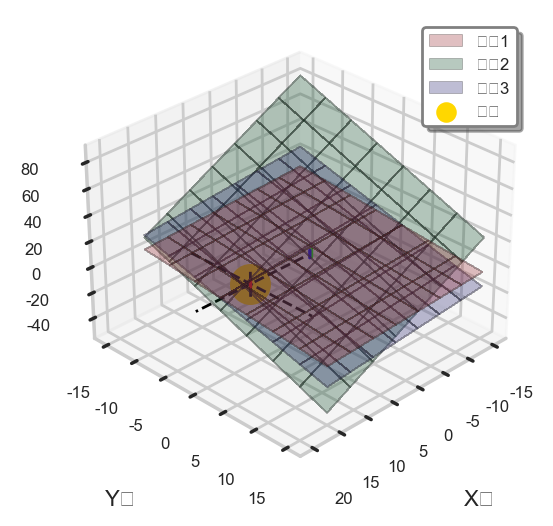
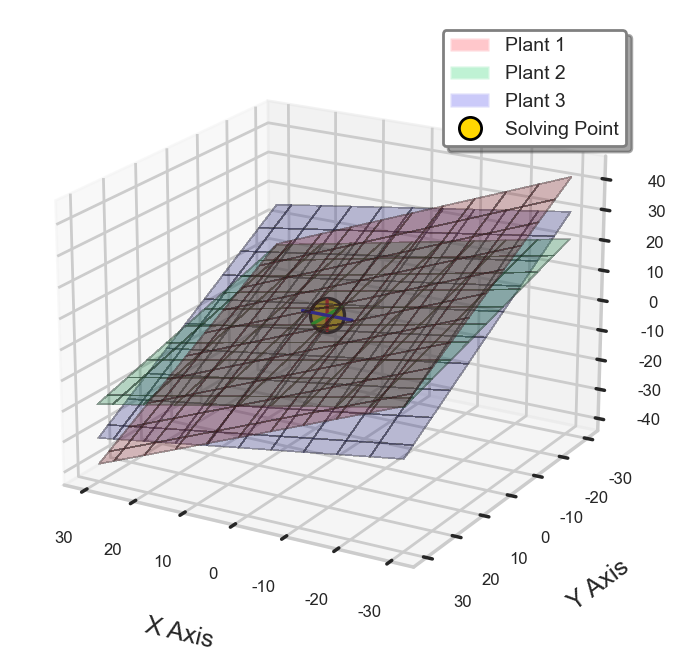
determinant change

diff --git a/templates/determinant.html b/templates/determinant.html
@@ -47,6 +47,10 @@
         padding-left: 15px;
         margin: 25px 0;
     }
+    .animation-gif {
+        border-radius: 6px;
+        box-shadow: 0 4px 12px rgba(0,0,0,0.1);
+    }
     /* 添加颜色定义 */
     .katex .red { color: #e74c3c; }
     .katex .blue { color: #3498db; }
@@ -152,16 +156,24 @@
                     <div class="card-body">
                         <div class="d-flex justify-content-center">
                             <div class="matrix-container" id="matrix2x2">
+                                <form method="post">
                                 <div class="matrix-row mb-2">
-                                    <input type="number" class="matrix-input" value="1">
-                                    <input type="number" class="matrix-input" value="0">
+                                    <input type="number" name="a" class="matrix-input" value="1">
+                                    <input type="number" name="b" class="matrix-input" value="0">
                                 </div>
                                 <div class="matrix-row">
-                                    <input type="number" class="matrix-input" value="0">
-                                    <input type="number" class="matrix-input" value="1">
+                                    <input type="number" name="c" class="matrix-input" value="0">
+                                    <input type="number" name="d" class="matrix-input" value="1">
                                 </div>
+                                <div class="text-center mt-3">
+                                    <button type="submit" class="btn btn-primary btn-lg">
+                                        <i class="bi bi-play-circle"></i> 生成动画
+                                    </button>
+                                </div>
+                                </form>
                             </div>
                         </div>
+
                     </div>
                 </div>
             </div>
@@ -179,6 +191,18 @@
                         </div>
                     </div>
                 </div>
+
+            </div>
+            <div class="col-lg-6">
+                {% if gif_url %}
+                    <div class="animation-result mt-4">
+                        <h4>变换效果可视化：</h4>
+                        <div class="animation-wrapper">
+                            <img src="{{ gif_url }}" alt="线性变换动画" class="animation-gif" id="gif-image" >
+                        </div>
+                        <button onclick="replayGIF()" style="margin-top:10px;">重新播放</button>
+                    </div>
+                {% endif %}
             </div>
         </div>
     </div>
@@ -204,6 +228,10 @@
     document.querySelectorAll('.matrix-input').forEach(input => {
         input.addEventListener('input', updateDeterminant);
     });
+    function replayGIF() {
+        const img = document.getElementById('gif-image');
+        img.src = "{{ gif_url }}?t=" + new Date().getTime(); // 添加时间戳避免缓存
+    }
 
     function updateDeterminant() {
         const inputs = Array.from(document.querySelectorAll('.matrix-input'));

diff --git a/templates/feature.html b/templates/feature.html
@@ -356,6 +356,7 @@
                 <button type="submit" class="btn btn-primary btn-lg">
                     <i class="bi bi-play-circle"></i> 生成动画
                 </button>
+
             </div>
         </form>
 
@@ -363,8 +364,9 @@
             <div class="animation-result mt-4">
                 <h4>变换效果可视化：</h4>
                 <div class="animation-wrapper">
-                    <img src="{{ gif_url }}" alt="线性变换动画" class="animation-gif">
+                    <img src="{{ gif_url }}" alt="线性变换动画" class="animation-gif" id="gif-image">
                 </div>
+                <button onclick="replayGIF()" style="margin-top:10px;">重新播放</button>
             </div>
         {% endif %}
     </div>
@@ -380,7 +382,10 @@ const ctx = canvas.getContext('2d');
 let P = {x:1, y:0};
 let isDragging = false;
 const scale = 50;
-
+function replayGIF() {
+    const img = document.getElementById('gif-image');
+    img.src = "{{ gif_url }}?t=" + new Date().getTime(); // 添加时间戳避免缓存
+}
 const toCanvas = (x,y) => ({
   x: canvas.width/2 + x*scale,
   y: canvas.height/2 - y*scale

diff --git a/utils/determinant.py b/utils/determinant.py
@@ -45,26 +45,24 @@ class PillowWriter(AbstractMovieWriter):
         self._frames[0].save(
             self.outfile, save_all=True, append_images=self._frames[1:],
             duration=int(1000 / self.fps), loop=1)
-# GIF 生成函数
-def generate_transformation_gif(A, filename='static/feature/transformation.gif',
-                                grid_range=(-3, 3), grid_step=0.5,
-                                frames=60, interval=50):
+
+def generate_determinant_gif(A, filename='static/determinant/determinant_area.gif',
+                                     grid_range=(-3, 3), grid_step=0.5,
+                                     frames=60, interval=50):
     e1 = np.array([1, 0], dtype=float)
     e2 = np.array([0, 1], dtype=float)
     Ae1 = A @ e1
     Ae2 = A @ e2
 
-    eig_vals, eig_vecs = np.linalg.eig(A)
-    eig_vecs_norm = []
-    for i in range(eig_vecs.shape[1]):
-        v = eig_vecs[:, i]
-        norm = np.linalg.norm(v)
-        eig_vecs_norm.append(v / norm if norm != 0 else v)
-    eig_vecs_norm = np.array(eig_vecs_norm).T
-    eig1 = eig_vecs_norm[:, 0]
-    eig2 = eig_vecs_norm[:, 1]
-    Aeig1 = A @ eig1
-    Aeig2 = A @ eig2
+    # 单位正方形四个顶点（回到起点闭合）
+    square = np.array([
+        [0, 0],
+        [1, 0],
+        [1, 1],
+        [0, 1],
+        [0, 0]
+    ])
+    square_trans = (A @ square.T).T  # 矩阵变换后的四边形
 
     fig, ax = plt.subplots(figsize=(6, 6))
     ax.set_aspect('equal', 'box')
@@ -91,38 +89,53 @@ def generate_transformation_gif(A, filename='static/feature/transformation.gif',
         line, = ax.plot(pts[:, 0], pts[:, 1], color='lightgray', lw=0.5)
         grid_lines.append({'orig': pts, 'trans': pts_trans, 'line': line})
 
-    q_Ae1 = ax.quiver(0, 0, 0, 0, angles='xy', scale_units='xy', scale=1,
-                      color='red', label='A·e1')
-    q_Ae2 = ax.quiver(0, 0, 0, 0, angles='xy', scale_units='xy', scale=1,
-                      color='orange', label='A·e2')
-    q_eig1 = ax.quiver(0, 0, 0, 0, angles='xy', scale_units='xy', scale=1,
-                       color='magenta', width=0.005, label='Eigenvector 1')
-    q_eig2 = ax.quiver(0, 0, 0, 0, angles='xy', scale_units='xy', scale=1,
-                       color='green', width=0.005, label='Eigenvector 2')
+    # 单位正方形：初始化直接画出来
+    square_patch, = ax.plot(square[:, 0], square[:, 1], 'b-', lw=2, label='area')
 
-    # 加入图例
-    ax.legend(loc='upper left', fontsize='small')
+    # 标准基向量和变换后向量
+    q_Ae1 = ax.quiver(0, 0, e1[0], e1[1], angles='xy', scale_units='xy', scale=1, color='red', label='A·e1')
+    q_Ae2 = ax.quiver(0, 0, e2[0], e2[1], angles='xy', scale_units='xy', scale=1, color='orange', label='A·e2')
+
+    # 行列式文本
+    detA = np.linalg.det(A)
+    det_text = ax.text(0.05, 0.95, f"square = {abs(detA):.2f}",
+                       transform=ax.transAxes, fontsize=12, verticalalignment='top')
+
+    ax.legend(loc='lower right')
 
     def update(frame):
         t = frame / (frames - 1)
+
+        # 正方形插值
+        curr_square = (1 - t) * square + t * square_trans
+        square_patch.set_data(curr_square[:, 0], curr_square[:, 1])
+
+        # 向量插值
         curr_e1 = (1 - t) * e1 + t * Ae1
         curr_e2 = (1 - t) * e2 + t * Ae2
         q_Ae1.set_UVC(curr_e1[0], curr_e1[1])
         q_Ae2.set_UVC(curr_e2[0], curr_e2[1])
-        curr_eig1 = (1 - t) * eig1 + t * Aeig1
-        curr_eig2 = (1 - t) * eig2 + t * Aeig2
-        q_eig1.set_UVC(curr_eig1[0], curr_eig1[1])
-        q_eig2.set_UVC(curr_eig2[0], curr_eig2[1])
+
+        # 网格插值
         for gl in grid_lines:
             orig = gl['orig']
             trans = gl['trans']
             curr = (1 - t) * orig + t * trans
             gl['line'].set_data(curr[:, 0], curr[:, 1])
-        return [q_Ae1, q_Ae2, q_eig1, q_eig2] + [gl['line'] for gl in grid_lines]
+
+        # 计算当前四边形面积
+        x = curr_square[:, 0]
+        y = curr_square[:, 1]
+        area = 0.5 * abs(np.dot(x[:-1], y[1:]) - np.dot(y[:-1], x[1:]))
+        det_text.set_text(f"square = {area:.2f}")
+
+        return [q_Ae1, q_Ae2, square_patch, det_text] + [gl['line'] for gl in grid_lines]
 
     anim = FuncAnimation(fig, update, frames=frames, interval=interval, blit=True)
-    writer = PillowWriter(fps=1000/interval, metadata={'loop':1})
+
+    writer = PillowWriter(fps=1000 / interval, metadata={'loop': 1})
     os.makedirs(os.path.dirname(filename), exist_ok=True)
     anim.save(filename, writer=writer)
     plt.close(fig)
+
     return filename

diff --git a/utils/solve.py b/utils/solve.py
@@ -1,13 +1,15 @@
 import numpy as np
 from matplotlib import pyplot as plt
 import seaborn as sns
+from matplotlib.patches import Patch
 
 def plot_planes(A, b):
     sns.set_theme(style="whitegrid")
-    fig = plt.figure(figsize=(4, 3))
+    fig = plt.figure(figsize=(5, 4))
     ax = fig.add_subplot(111, projection="3d")
 
-    x = y = np.linspace(-15, 15, 15)
+    # 网格分辨率更高，范围更大，避免曲面过度畸形
+    x = y = np.linspace(-30, 30, 20)
     X, Y = np.meshgrid(x, y)
 
     try:
@@ -26,59 +28,69 @@ def plot_planes(A, b):
     }
 
     colors = ['#FF4755', '#2ED573', '#5352ED']
-    labels = ['平面1', '平面2', '平面3']
+    labels = ['Plant 1', 'Plant 2', 'Plant 3']
 
+    # 绘制平面
     for i in range(3):
         a, b_coeff, c = A[i]
-        d = c if c != 0 else 1e-6
+
+        # 避免 c=0 除零错误
+        d = c if abs(c) > 1e-6 else 1e-6
+
         Z = (b[i] - a * X - b_coeff * Y) / d
-        surf = ax.plot_surface(X, Y, Z, color=colors[i], label=labels[i], **plane_params)
+        surf = ax.plot_surface(X, Y, Z, color=colors[i], **plane_params)
+
+        # 强制让图例不会因为plot_surface无法识别label而丢失
         surf._facecolors2d = surf._facecolor3d
         surf._edgecolors2d = surf._edgecolor3d
 
+    # 绘制解的点
     if has_solution:
         x_sol, y_sol, z_sol = solution
         ax.scatter(
             x_sol, y_sol, z_sol,
             s=150,
             color='#FFD700',
-            linewidth=2.5,
-            label='Solving Point',
+            edgecolors='black',
+            linewidth=1.2,
+            label='解的坐标',
             zorder=100
         )
-        # XYZ三轴方向的参考线
-        ax.plot([x_sol, x_sol], [y_sol, y_sol], [z_sol - 10, z_sol + 10], color='black', linestyle='--', linewidth=1)
-        ax.plot([x_sol, x_sol], [y_sol - 10, y_sol + 10], [z_sol, z_sol], color='black', linestyle='--', linewidth=1)
-        ax.plot([x_sol - 10, x_sol + 10], [y_sol, y_sol], [z_sol, z_sol], color='black', linestyle='--', linewidth=1)
 
-        for coord, color in zip([x_sol, y_sol, z_sol], ['#FF0000', '#00FF00', '#0000FF']):
-            ax.plot(
-                [coord, coord], [y_sol, y_sol], [z_sol-3, z_sol+3],
-                color=color,
-                linestyle='-',
-                alpha=1,
-                linewidth=1.2
-            )
+        # 辅助线：x/y/z轴方向参考
+        ax.plot([x_sol, x_sol], [y_sol, y_sol], [z_sol - 5, z_sol + 5], color='#FF0000', linestyle='-', linewidth=1.2)
+        ax.plot([x_sol, x_sol], [y_sol - 5, y_sol + 5], [z_sol, z_sol], color='#00FF00', linestyle='-', linewidth=1.2)
+        ax.plot([x_sol - 5, x_sol + 5], [y_sol, y_sol], [z_sol, z_sol], color='#0000FF', linestyle='-', linewidth=1.2)
 
     # 坐标轴设置
-    ax.set_xlabel('X Axis', fontsize=8, labelpad=8)
-    ax.set_ylabel('Y Axis', fontsize=8, labelpad=8)
-    ax.set_zlabel('Z Axis', fontsize=8, labelpad=8)
+    ax.set_xlabel('X Axis', fontsize=9, labelpad=8)
+    ax.set_ylabel('Y Axis', fontsize=9, labelpad=8)
+    ax.set_zlabel('Z Axis', fontsize=9, labelpad=8)
     ax.tick_params(axis='both', which='major', labelsize=6)
 
-    # 图例优化
+    # 用 proxy artist 补全图例
+    proxies = [Patch(facecolor=colors[i], label=labels[i], alpha=0.3) for i in range(3)]
+    if has_solution:
+        proxies.append(
+            plt.Line2D([0], [0], marker='o', color='w', label='Solving Point',
+                       markerfacecolor='#FFD700', markersize=8, markeredgecolor='black')
+        )
+
     ax.legend(
+        handles=proxies,
         loc='upper right',
-        fontsize=6,
-        markerscale=0.4,
+        fontsize=7,
         frameon=True,
         shadow=True,
         facecolor='white',
         edgecolor='gray'
     )
 
-    ax.view_init(elev=30, azim=45)
-    plt.savefig("static/solve/plot.png", dpi=200, bbox_inches='tight')  # 降低dpi至200
+    # 调整视角
+    ax.view_init(elev=20, azim=120)
+
+    # 保存图片
+    plt.savefig("static/solve/plot.png", dpi=200, bbox_inches='tight')
     plt.close()
 
 

diff --git a/app.py b/app.py
@@ -6,6 +6,7 @@ from flask_bootstrap import Bootstrap
 
 from utils.add import process_vectors, clean_old_files
 from utils.basis import basis_plot
+from utils.determinant import generate_determinant_gif
 from utils.feature import generate_transformation_gif
 from utils.solve import cramer_method, gauss_elimination, plot_planes
 
@@ -172,7 +173,18 @@ def quadratic():
 
 @app.route('/determinant', methods=["GET", "POST"])
 def determinate():
-    return render_template('determinant.html')
+    gif_url = None
+    if request.method == 'POST':
+        # 从表单获取矩阵元素
+        a = float(request.form['a'])
+        b = float(request.form['b'])
+        c = float(request.form['c'])
+        d = float(request.form['d'])
+        A = np.array([[a, b], [c, d]])
+        # 生成 GIF
+        filename = generate_determinant_gif(A)
+        gif_url = f"static/determinant/determinant_area.gif"
+    return render_template('determinant.html', gif_url=gif_url)
 
 
 @app.route('/basis', methods=["GET", "POST"])
